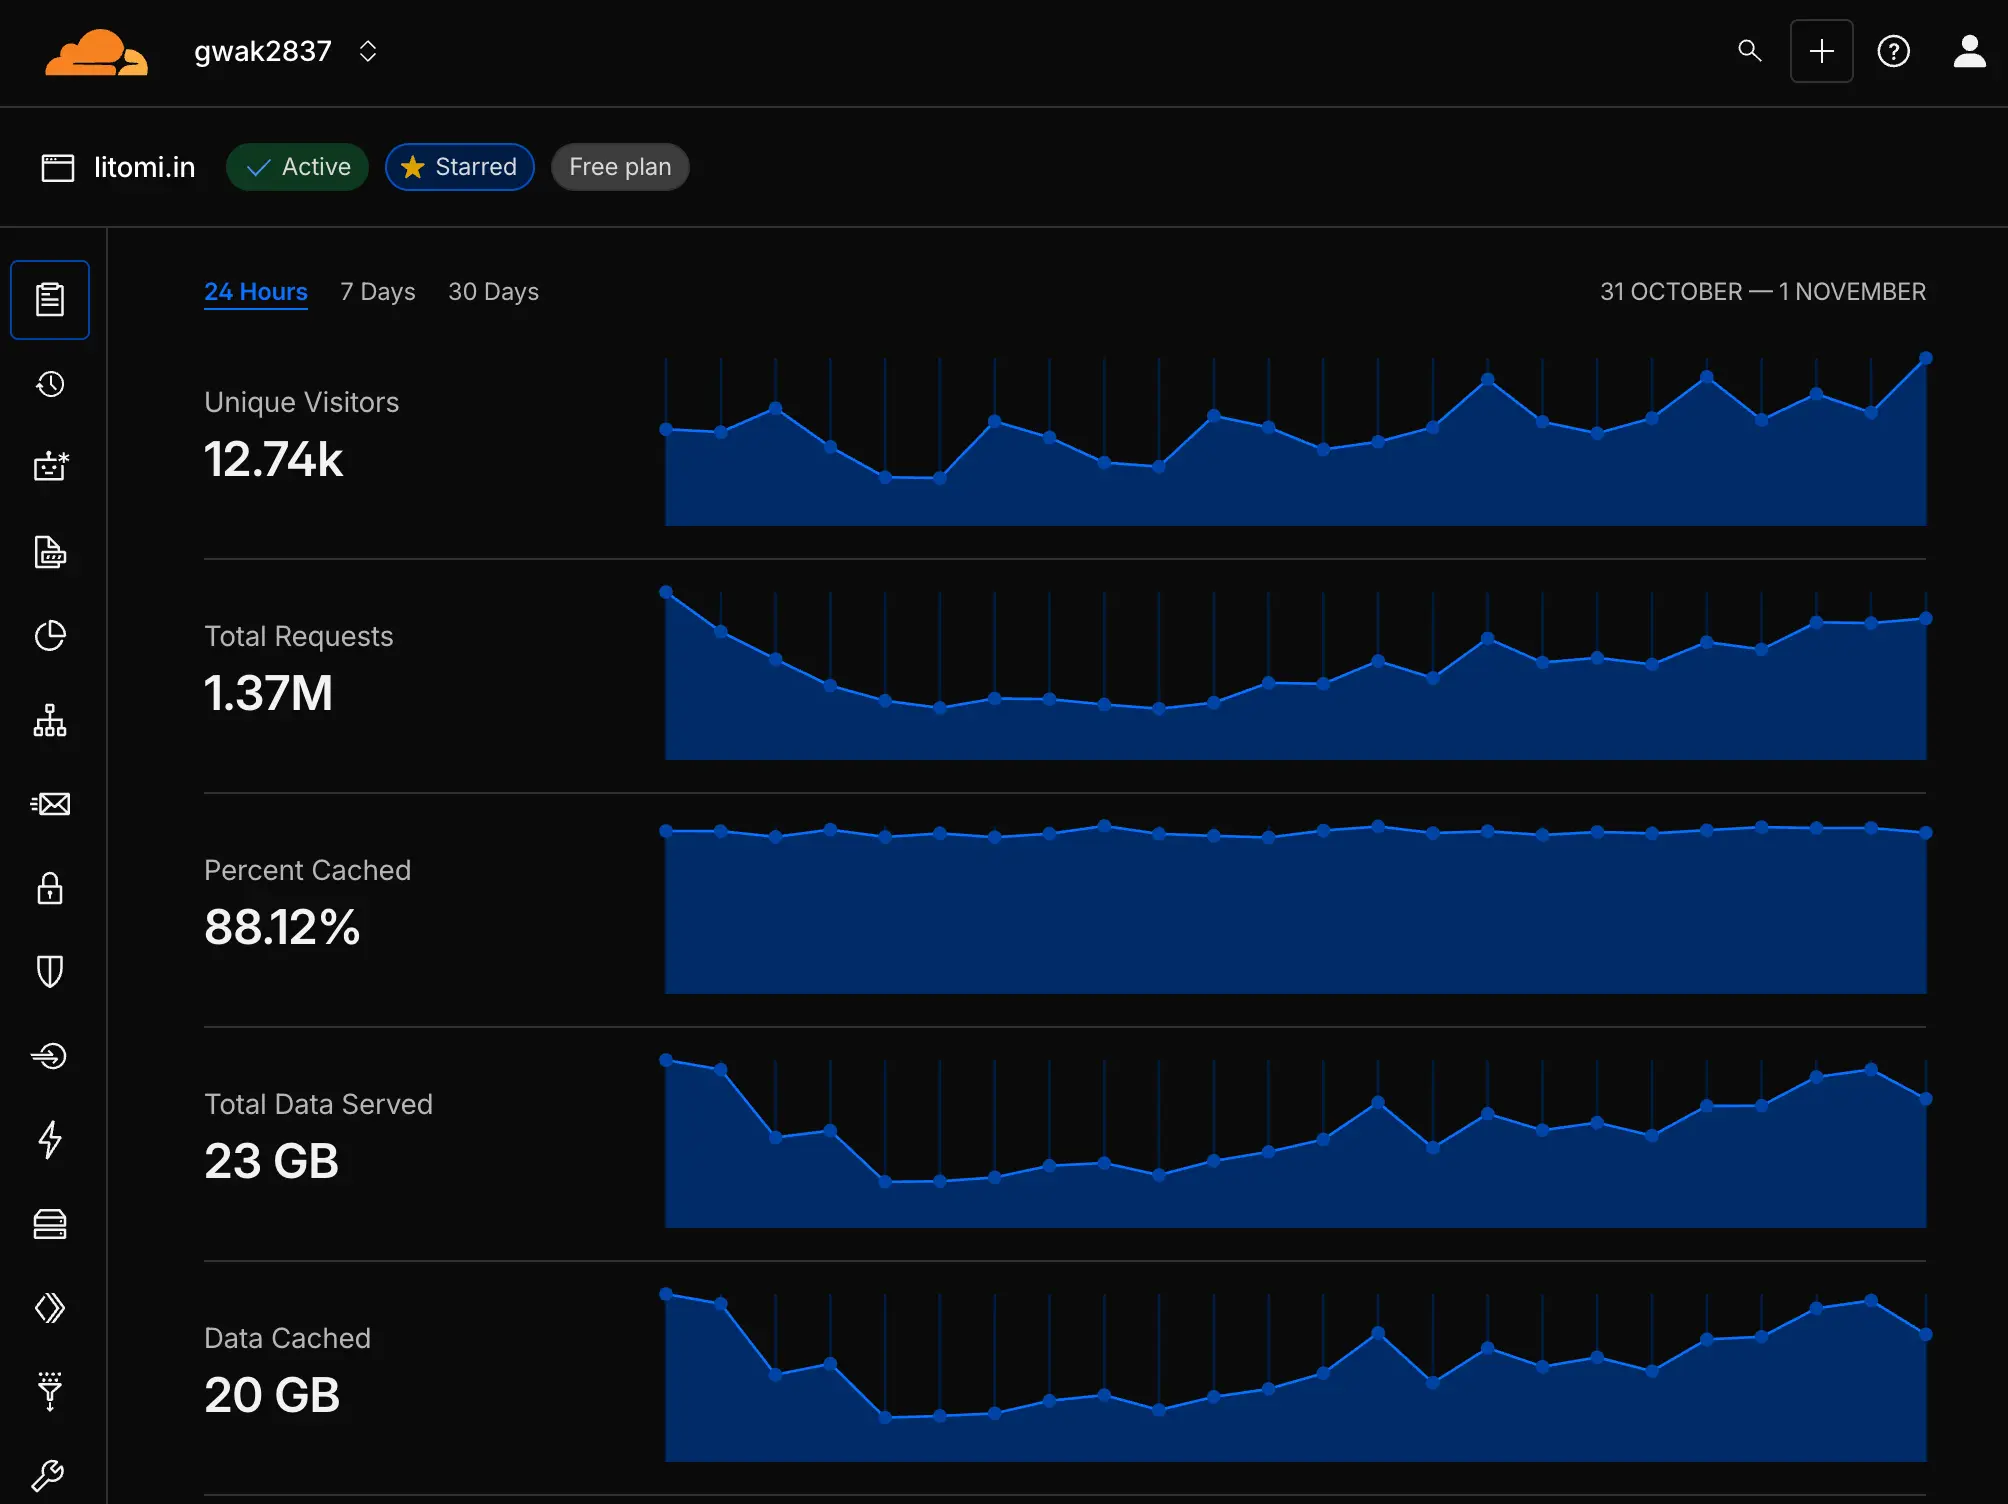
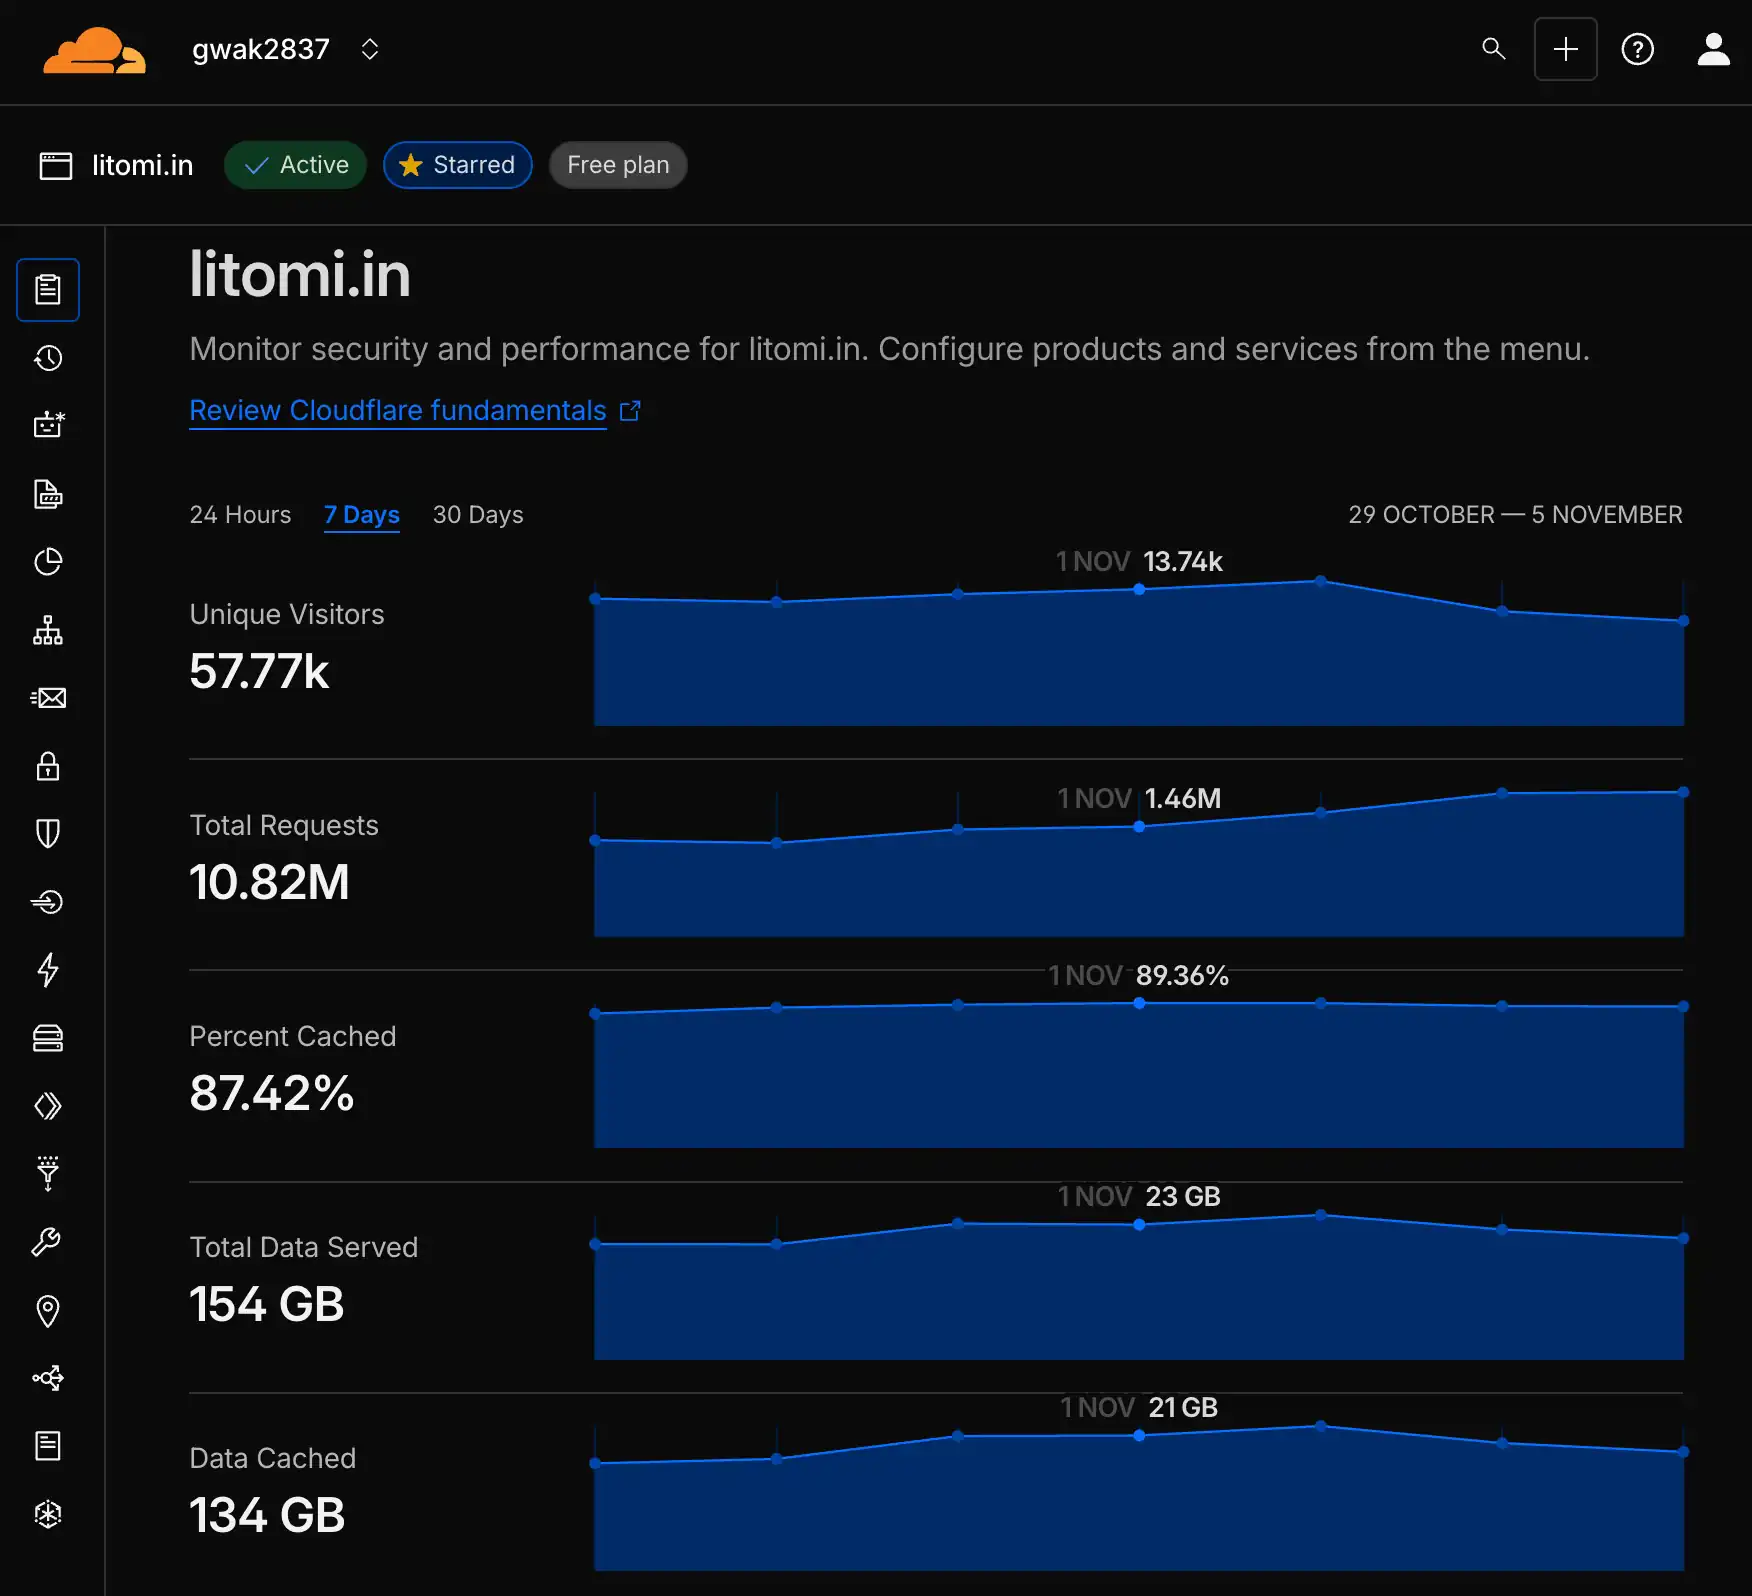
update: 정보

diff --git a/src/app/[lang]/dictionary/project.ts b/src/app/[lang]/dictionary/project.ts
@@ -8,10 +8,10 @@ export const projectDict = {
     ja: '個人プロジェクト',
   },
   googleAnalytics: {
-    ko: '6.0만',
-    en: '60K',
-    zh: '6.0万',
-    ja: '6.0万',
+    ko: '6.7만',
+    en: '67K',
+    zh: '6.7万',
+    ja: '6.7万',
   },
   amplitude: {
     ko: '22.7%',
@@ -20,9 +20,9 @@ export const projectDict = {
     ja: '22.7%',
   },
   cloudflareAnalytics: {
-    ko: '88.1%',
-    en: '88.1%',
-    zh: '88.1%',
-    ja: '88.1%',
+    ko: '87.4%',
+    en: '87.4%',
+    zh: '87.4%',
+    ja: '87.4%',
   },
 }

diff --git a/src/app/[lang]/dictionary/general.tsx b/src/app/[lang]/dictionary/general.tsx
@@ -2,10 +2,10 @@ import 'server-only'
 import { formatDate } from './utils'
 
 export const 작성일 = {
-  ko: formatDate(2025, 11, 1, 'ko'),
-  en: formatDate(2025, 11, 1, 'en'),
-  zh: formatDate(2025, 11, 1, 'zh'),
-  ja: formatDate(2025, 11, 1, 'ja'),
+  ko: formatDate(2025, 11, 5, 'ko'),
+  en: formatDate(2025, 11, 5, 'en'),
+  zh: formatDate(2025, 11, 5, 'zh'),
+  ja: formatDate(2025, 11, 5, 'ja'),
 }
 
 export const generalDict = {
